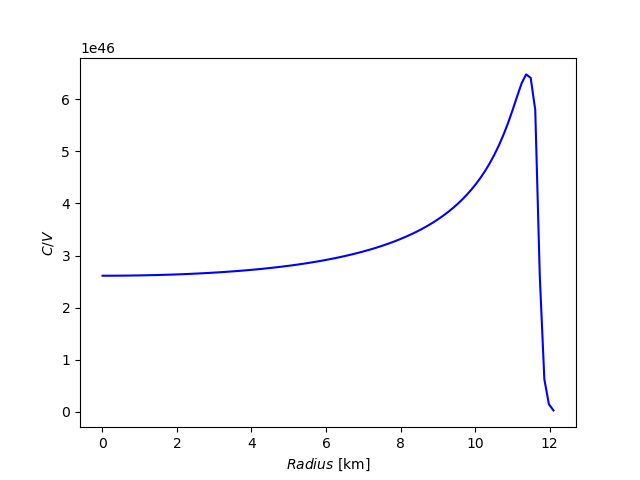
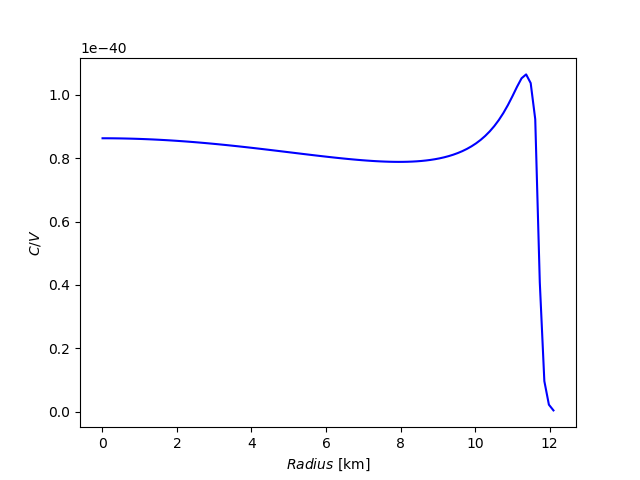
ok

diff --git a/cap_rate/analytic_cap/analytic_approx.c b/cap_rate/analytic_cap/analytic_approx.c
@@ -163,6 +163,7 @@ double I2Integral(double finalvel, double initvel, double chempot, double DMmass
   struct IParams params4 = {finalvel, initvel, chempot, DMmass};
 
   double smin = 0.5*(initvel + finalvel);
+  double smax = (FermiVel(chempot) + 1e6*0.81 )* ( 5e8 );
 
   double res4, err4;
 
@@ -173,9 +174,9 @@ double I2Integral(double finalvel, double initvel, double chempot, double DMmass
   F4.function = &I2Integrand;
   F4.params   = &params4;
 
-  size_t limit;
+  // size_t limit;
 
-  gsl_integration_qagiu(&F4, smin, 1.e-6, 1.e-6, limit, wp4, &res4, &err4);
+  gsl_integration_qag(&F4, smin, smax, 1.e-6, 1.e-6, 5000, 6, wp4, &res4, &err4);
   gsl_integration_workspace_free(wp4);
 
   return res4;
@@ -298,7 +299,7 @@ int main()
 
   int range = 100;
   double mass_vals[range];
-  logspace(-9, 4, range, mass_vals);
+  logspace(-9, 6, range, mass_vals);
 
   // double test_mass   = 1.e2;
 
@@ -306,13 +307,14 @@ int main()
   npts = readdata("eos_24_lowmass.dat");
 
   double test_rad   = 11.3;
-  double test_mass  = 1e-3;
+  double test_mass  = 1e0;
   // double muFn       = muFn_interp(test_rad, npts);
   // double initialvel = esc_vel_full(test_rad, npts)/SOL;
 
 
 
   FILE *outfile = fopen("analytic_complete_cap.dat", "w");
+  // FILE *outfile = fopen("analytic_rad_cap.dat", "w");
   //
   for (j =0; j<range;j++){
     // double test = 0;
@@ -323,19 +325,19 @@ int main()
 
       radint[i] = rmin + ((double) i)*(rmax-rmin)/(Nrpts-1);
 
-      double initialvel  = esc_vel_full(radint[i], npts);
-      double nd          = nd_interp(radint[i], npts)* 1.e45 ; // m^-3
+      double initialvel  = esc_vel_full(radint[i], npts)/SOL;
+      double nd          = nd_interp(radint[i], npts) ; // m^-3
       double chempot     = muFn_interp(radint[i], npts);
-      double ndfree      = pow(2.*NM*chempot,1.5)/3./M_PI/M_PI/hbarc/hbarc/hbarc * 1.e45 ;
+      double ndfree      = pow(2.*NM*chempot,1.5)/3./M_PI/M_PI/hbarc/hbarc/hbarc;
 
 
-      dCdr[i] = prefactors(mass_vals[j])*constCS()*OmegaIntegral(initialvel, chempot, mass_vals[j]) * nd*nd/ndfree;
-      // fprintf(outfile, "%0.10E\t%0.10E\t%0.10E\n", radint[i], dCdr[i], nd*nd/ndfree);
+      dCdr[i] = prefactors(mass_vals[j])*constCS()*OmegaIntegral(initialvel, chempot, mass_vals[j]) * nd*nd/ndfree*radint[i]*radint[i];
+      fprintf(outfile, "%0.10E\t%0.10E\t%0.10E\n", radint[i], dCdr[i], initialvel);
 
     }
-  //
-  // double test = capture_rate(rmin, rmax);
-  // printf("%0.8e\n", test);
+
+  double test = capture_rate(rmin, rmax);
+  printf("%0.8e\n", test);
 
     cap_full[j] = capture_rate(rmin, rmax);
     fprintf(outfile, "%0.10e\t%0.10e\n", mass_vals[j], cap_full[j]);
@@ -344,7 +346,7 @@ int main()
       dCdr[i] = 0;
     }
   }
-  //
+
   fclose(outfile);
 
   end = clock();

diff --git a/cap_rate/analytic_cap/plotter.py b/cap_rate/analytic_cap/plotter.py
@@ -15,8 +15,8 @@ def cap_rate_plots_an():
     range2 = np.empty(0)
     # range3 = np.empty(0)
 
-    # current_file = open('analytic_rad_cap.dat', 'r')
-    current_file = open('analytic_complete_cap.dat', 'r')
+    current_file = open('analytic_rad_cap.dat', 'r')
+    # current_file = open('analytic_complete_cap.dat', 'r')
 
     lines = current_file.readlines()
 
@@ -25,26 +25,25 @@ def cap_rate_plots_an():
         x = x.split('\t')
         domain = np.append(domain, float(x[0]))
         range1 = np.append(range1, float(x[1]))
-        # range2 = np.append(range2, float(x[2]))
+        range2 = np.append(range2, float(x[2]))
         # range3 = np.append(range3, float(x[3]))
 
     current_file.close
 
     fig, ax1 = plt.subplots()
-    ax1.loglog(domain, range1, color='blue')
+    ax1.plot(domain, range1, color='blue')
     ax1.set(xlabel = r'$Radius$ [km]', ylabel = r'$C/V$')
     # ax1.set_yscale('log')
     # ax1.axis([0, 12, 0, 1.2e56])
-    # plt.savefig('C_per_V_an.png')
-    plt.savefig('C_an.png')
-    #
+    plt.savefig('C_per_V_an.png')
+    # plt.savefig('C_an.png')
+
     # fig, ax2 = plt.subplots()
     # ax2.plot(domain, range2, color='blue')
-    # ax2.set(xlabel = r'$Radius$ [km]', ylabel = r'$zeta n$')
+    # ax2.set(xlabel = r'$Radius$ [km]', ylabel = r'$esc_vel$')
     # # ax2.set_yscale('log')
     # # ax1.axis([0, 11.5, 0.4, 1])
-    # plt.savefig('zeta_times_n.png')
-
+    # plt.savefig('esc__plot.png')
 
 
 cap_rate_plots_an()
